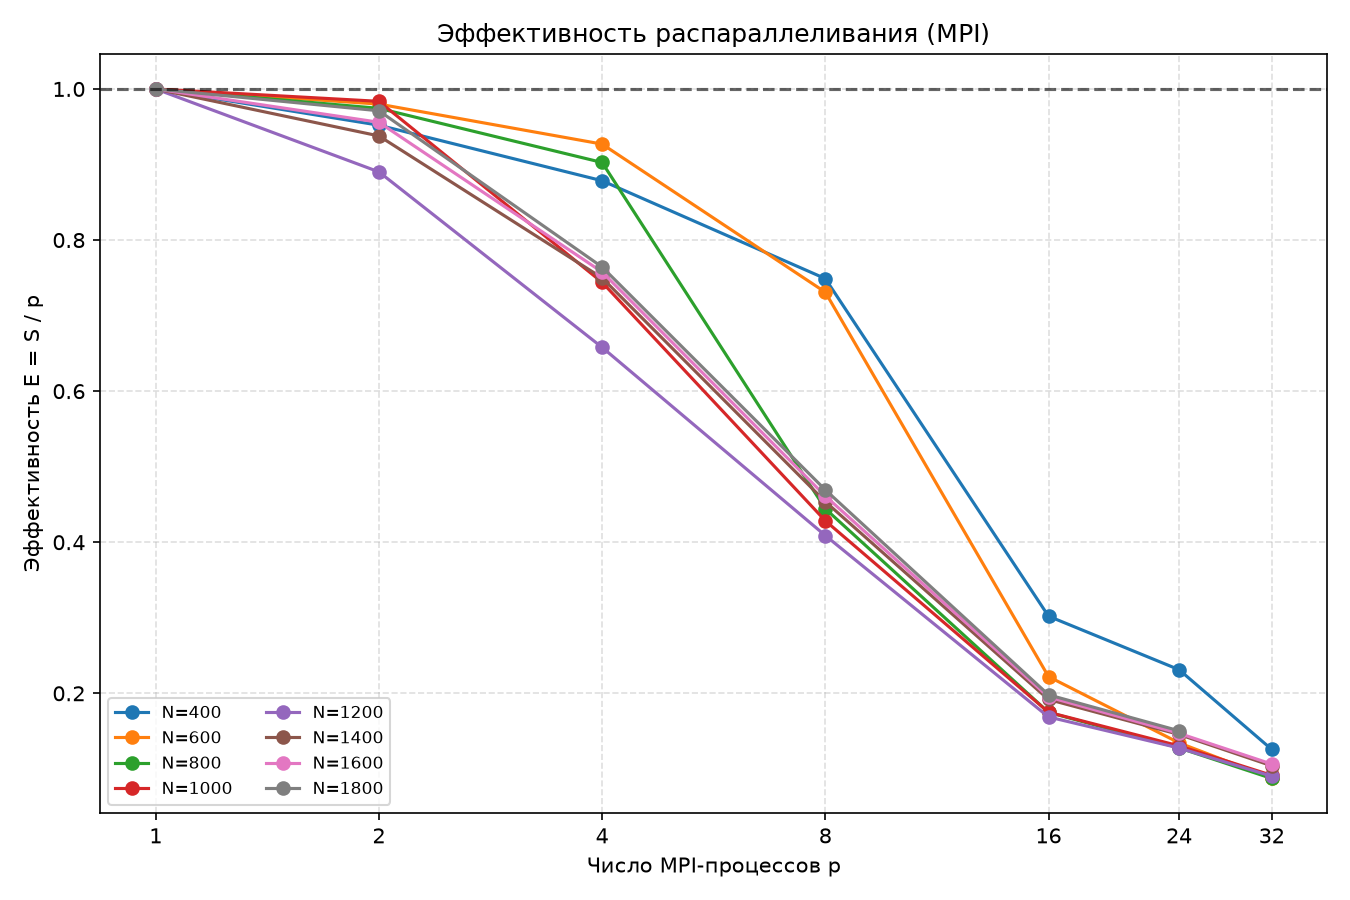
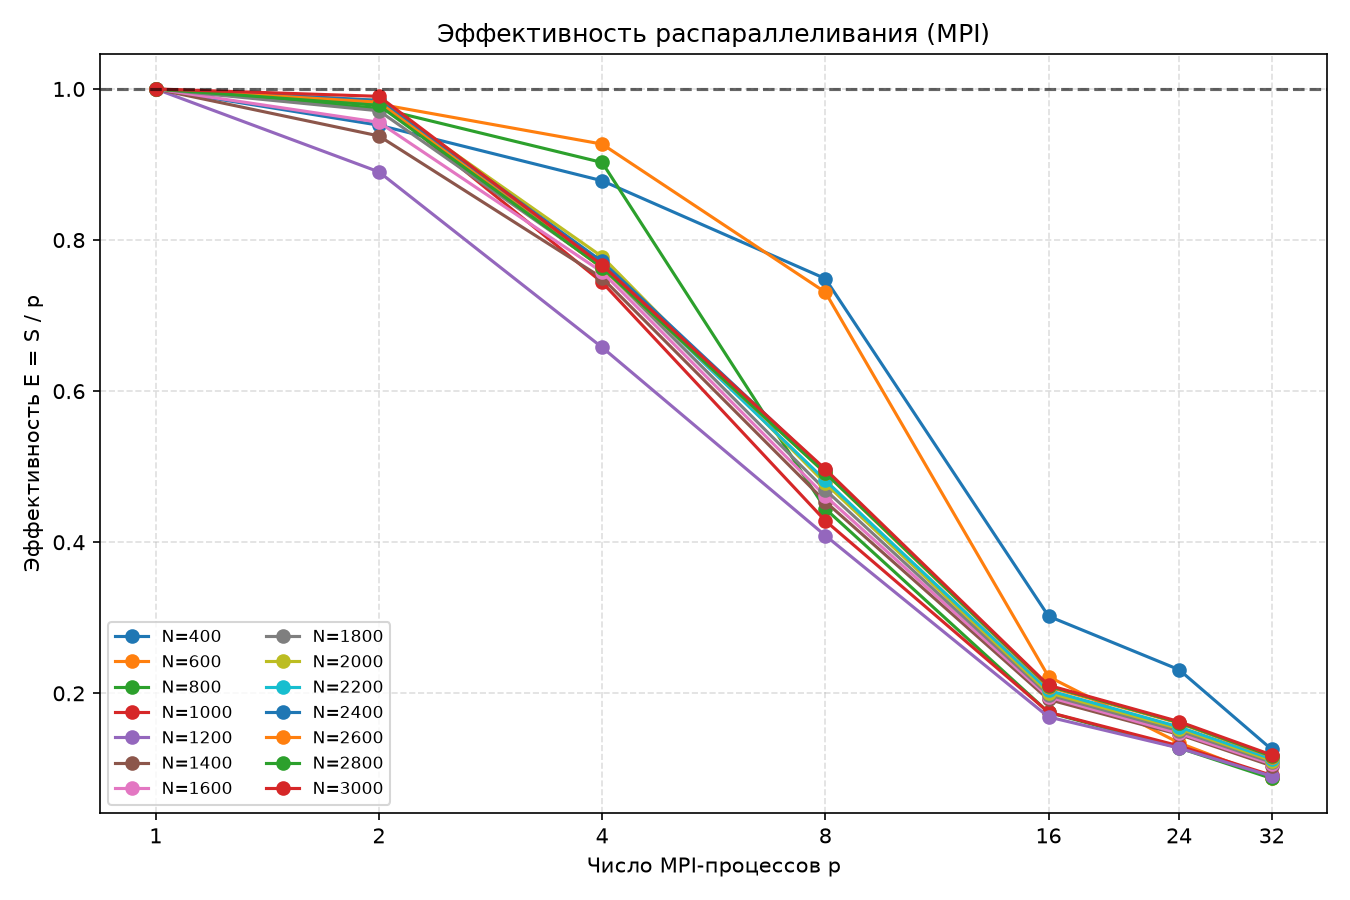
fix: lost data was restored

diff --git a/reports/lab_03/tables.md b/reports/lab_03/tables.md
@@ -15,7 +15,13 @@
 | 1200 | 1.479 | 0.8305 | 0.5618 | 0.4521 | 0.5477 | 0.4828 | 0.5119 |
 | 1400 | 2.632 | 1.403 | 0.8774 | 0.7251 | 0.8575 | 0.7537 | 0.7904 |
 | 1600 | 3.947 | 2.065 | 1.302 | 1.07 | 1.264 | 1.119 | 1.16 |
-| 1800 | 5.671 | 2.92 | 1.855 | 1.511 | 1.79 | 1.572 | nan |
+| 1800 | 5.671 | 2.92 | 1.855 | 1.511 | 1.79 | 1.572 | 1.631 |
+| 2000 | 7.906 | 4.014 | 2.541 | 2.068 | 2.46 | 2.148 | 2.226 |
+| 2200 | 10.62 | 5.412 | 3.46 | 2.754 | 3.254 | 2.844 | 2.93 |
+| 2400 | 14.12 | 7.166 | 4.573 | 3.565 | 4.214 | 3.646 | 3.772 |
+| 2600 | 17.82 | 9.072 | 5.84 | 4.533 | 5.346 | 4.624 | 4.797 |
+| 2800 | 22.22 | 11.35 | 7.275 | 5.647 | 6.62 | 5.738 | 5.938 |
+| 3000 | 27.5 | 13.89 | 8.964 | 6.921 | 8.16 | 7.049 | 7.257 |
 
 ### Ускорение S
 
@@ -28,7 +34,13 @@
 | 1200 | 1.00 | 1.78 | 2.63 | 3.27 | 2.70 | 3.06 | 2.89 |
 | 1400 | 1.00 | 1.88 | 3.00 | 3.63 | 3.07 | 3.49 | 3.33 |
 | 1600 | 1.00 | 1.91 | 3.03 | 3.69 | 3.12 | 3.53 | 3.40 |
-| 1800 | 1.00 | 1.94 | 3.06 | 3.75 | 3.17 | 3.61 | nan |
+| 1800 | 1.00 | 1.94 | 3.06 | 3.75 | 3.17 | 3.61 | 3.48 |
+| 2000 | 1.00 | 1.97 | 3.11 | 3.82 | 3.21 | 3.68 | 3.55 |
+| 2200 | 1.00 | 1.96 | 3.07 | 3.86 | 3.26 | 3.73 | 3.62 |
+| 2400 | 1.00 | 1.97 | 3.09 | 3.96 | 3.35 | 3.87 | 3.74 |
+| 2600 | 1.00 | 1.96 | 3.05 | 3.93 | 3.33 | 3.86 | 3.72 |
+| 2800 | 1.00 | 1.96 | 3.05 | 3.93 | 3.36 | 3.87 | 3.74 |
+| 3000 | 1.00 | 1.98 | 3.07 | 3.97 | 3.37 | 3.90 | 3.79 |
 
 ### Эффективность E
 
@@ -41,7 +53,13 @@
 | 1200 | 1.00 | 0.89 | 0.66 | 0.41 | 0.17 | 0.13 | 0.09 |
 | 1400 | 1.00 | 0.94 | 0.75 | 0.45 | 0.19 | 0.15 | 0.10 |
 | 1600 | 1.00 | 0.96 | 0.76 | 0.46 | 0.20 | 0.15 | 0.11 |
-| 1800 | 1.00 | 0.97 | 0.76 | 0.47 | 0.20 | 0.15 | nan |
+| 1800 | 1.00 | 0.97 | 0.76 | 0.47 | 0.20 | 0.15 | 0.11 |
+| 2000 | 1.00 | 0.98 | 0.78 | 0.48 | 0.20 | 0.15 | 0.11 |
+| 2200 | 1.00 | 0.98 | 0.77 | 0.48 | 0.20 | 0.16 | 0.11 |
+| 2400 | 1.00 | 0.98 | 0.77 | 0.50 | 0.21 | 0.16 | 0.12 |
+| 2600 | 1.00 | 0.98 | 0.76 | 0.49 | 0.21 | 0.16 | 0.12 |
+| 2800 | 1.00 | 0.98 | 0.76 | 0.49 | 0.21 | 0.16 | 0.12 |
+| 3000 | 1.00 | 0.99 | 0.77 | 0.50 | 0.21 | 0.16 | 0.12 |
 
 ### Производительность, GFLOP/s
 
@@ -54,7 +72,13 @@
 | 1200 | 2.34 | 4.16 | 6.15 | 7.65 | 6.31 | 7.16 | 6.75 |
 | 1400 | 2.09 | 3.91 | 6.25 | 7.57 | 6.40 | 7.28 | 6.94 |
 | 1600 | 2.08 | 3.97 | 6.29 | 7.66 | 6.48 | 7.32 | 7.06 |
-| 1800 | 2.06 | 3.99 | 6.29 | 7.72 | 6.52 | 7.42 | nan |
+| 1800 | 2.06 | 3.99 | 6.29 | 7.72 | 6.52 | 7.42 | 7.15 |
+| 2000 | 2.02 | 3.99 | 6.30 | 7.74 | 6.50 | 7.45 | 7.19 |
+| 2200 | 2.01 | 3.94 | 6.15 | 7.73 | 6.54 | 7.49 | 7.27 |
+| 2400 | 1.96 | 3.86 | 6.05 | 7.76 | 6.56 | 7.58 | 7.33 |
+| 2600 | 1.97 | 3.87 | 6.02 | 7.75 | 6.58 | 7.60 | 7.33 |
+| 2800 | 1.98 | 3.87 | 6.03 | 7.77 | 6.63 | 7.65 | 7.39 |
+| 3000 | 1.96 | 3.89 | 6.02 | 7.80 | 6.62 | 7.66 | 7.44 |
 
 ### Доля обменов в общем времени
 
@@ -67,4 +91,10 @@
 | 1200 | 0.7% | 1.5% | 2.3% | 3.6% | 8.7% | 9.4% | 15.4% |
 | 1400 | 0.5% | 1.7% | 2.0% | 4.2% | 7.6% | 8.2% | 13.5% |
 | 1600 | 0.5% | 1.2% | 1.8% | 3.5% | 6.6% | 8.5% | 12.7% |
-| 1800 | 0.4% | 1.3% | 1.6% | 2.9% | 5.7% | 7.5% | nan% |
+| 1800 | 0.4% | 1.3% | 1.6% | 2.9% | 5.7% | 7.5% | 11.6% |
+| 2000 | 0.3% | 1.2% | 1.4% | 2.7% | 6.3% | 7.3% | 11.3% |
+| 2200 | 0.3% | 1.1% | 1.3% | 2.4% | 5.3% | 6.6% | 10.9% |
+| 2400 | 0.3% | 0.9% | 1.1% | 2.3% | 5.3% | 6.1% | 10.4% |
+| 2600 | 0.3% | 0.9% | 1.1% | 2.3% | 4.8% | 5.8% | 9.5% |
+| 2800 | 0.2% | 0.8% | 1.0% | 2.1% | 4.2% | 5.3% | 9.1% |
+| 3000 | 0.2% | 0.8% | 0.9% | 1.9% | 4.4% | 5.1% | 8.7% |
